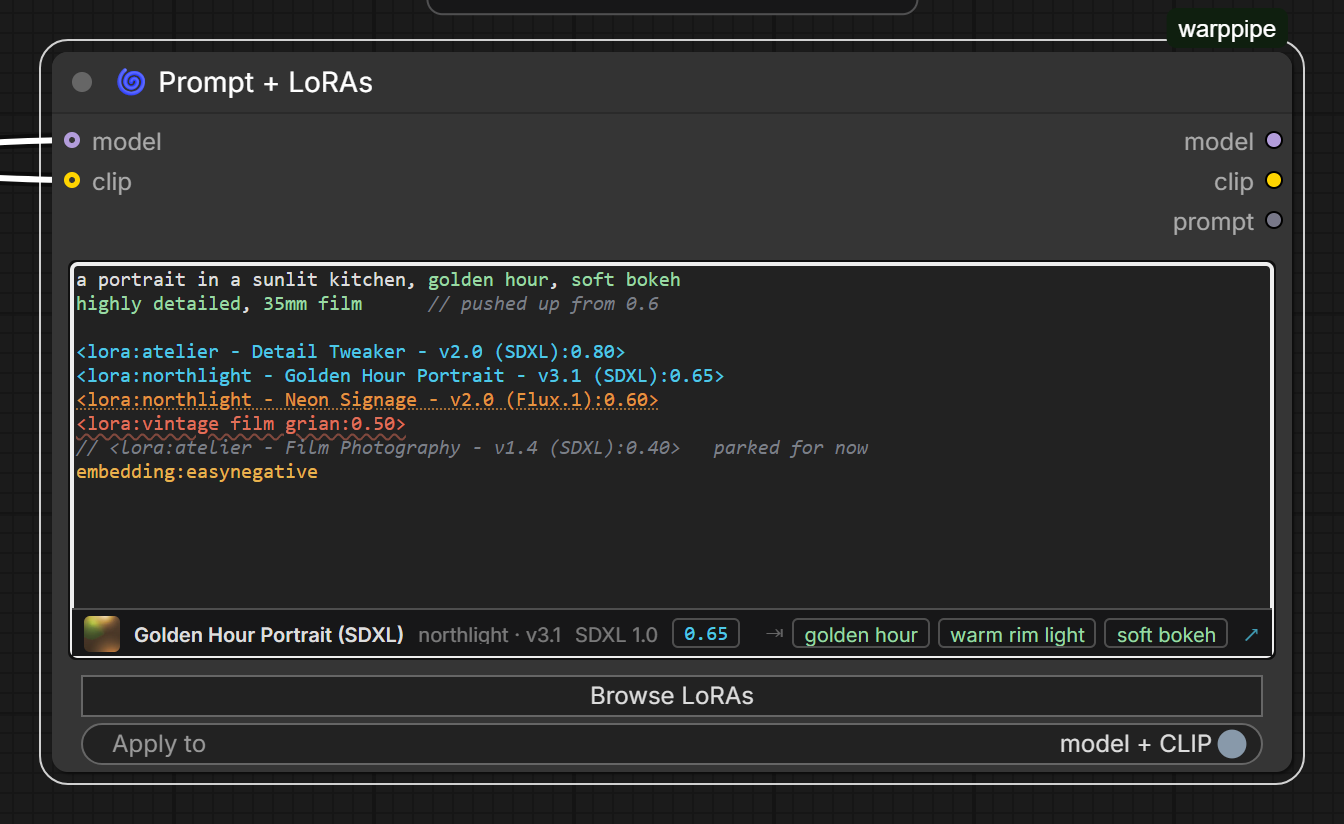
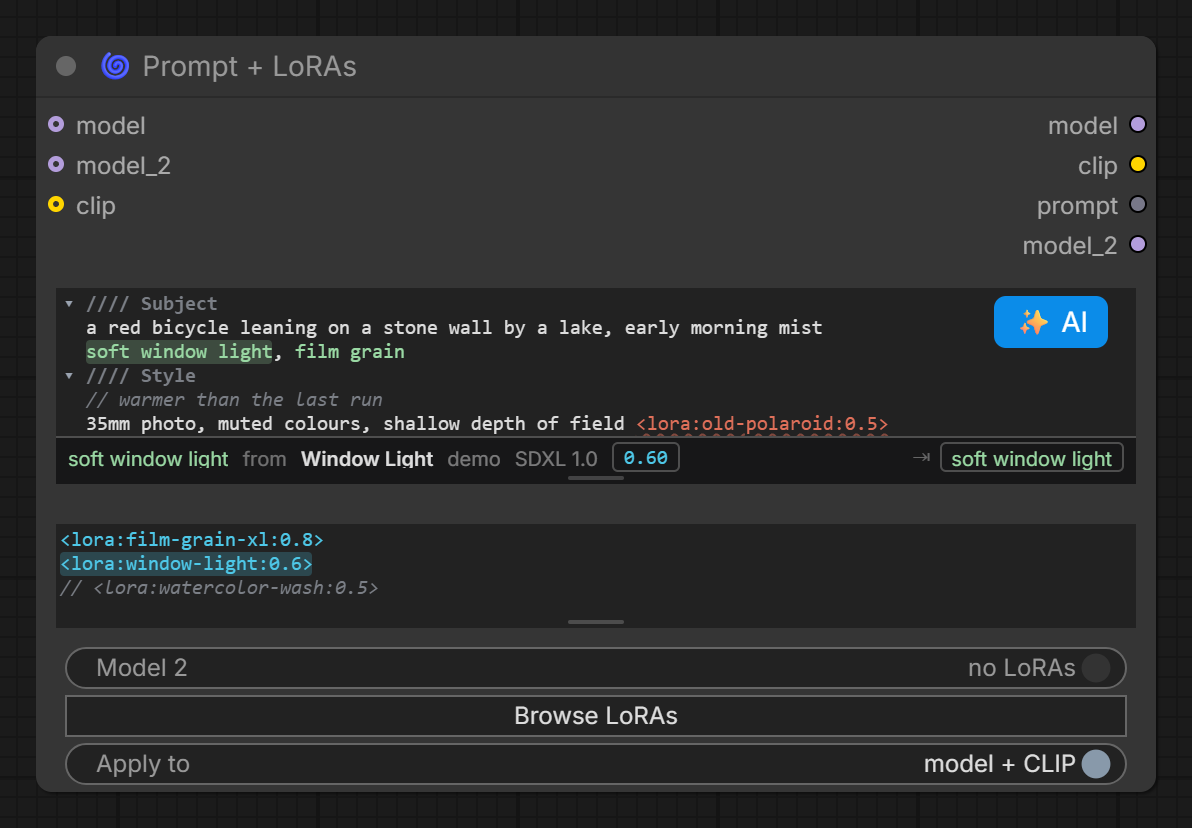
docs: a shorter README with the Prompt Writer and model groups
New screenshots, taken from a real ComfyUI with demo LoRAs, demo chats
and stand-in images: the prompt box with sections and trigger words,
the Prompt Writer showing changes, and Warp Send / Select with the
before/after slider. A diagram of the routing, prompt and LoRA examples,
and a metadata sample produced by build_civitai_parameters itself.

Changed region(s): [[0.0, 0.0303, 0.9933, 0.9709]]

diff --git a/README.md b/README.md
@@ -2,17 +2,13 @@
 
 # WarpPipe
 
-ComfyUI nodes that bundle a whole generation into one wire, and a prompt box
-that keeps a prompt and its LoRAs in the same place.
+ComfyUI nodes for people who switch models a lot and like their LoRAs in the prompt.
 
-- **Warp / Unwarp** — everything a sampler needs travels as a single link.
-  Switching between whole model setups is one wire moved instead of twenty.
-- **Prompt + LoRAs** — write `a portrait <lora:detail tweaker:0.8>` and have it
-  mean it. The tags *are* the loader; the prompt is still a prompt.
-- **Save Image (Civitai)** — writes metadata Civitai reads, so an upload
-  credits the checkpoint and the LoRAs that actually made the picture.
-
-They work apart as well as together.
+- **Prompt + LoRAs**: LoRAs are tags in the text, and colours tell you what will load before you queue.
+- **Prompt Writer**: an LLM chat behind every prompt box. Each answer is a version you can compare and send back.
+- **Warp / Unwarp**: a whole generation in one wire.
+- **Warp Send / Select**: switch between model groups without moving a wire.
+- **Save Image (Civitai)**: metadata Civitai reads, so an upload credits the right model and LoRAs.
 
 ## Install
 
@@ -20,148 +16,136 @@ They work apart as well as together.
 comfy node install warppipe
 ```
 
-Or clone into `ComfyUI/custom_nodes` and restart. Python 3.9+, no third-party
-dependencies.
+Or clone into `ComfyUI/custom_nodes` and restart. Python 3.9+, no extra dependencies.
 
-## The prompt box
+## Prompt + LoRAs
 
-![The Prompt + LoRAs node, with tags, notes and trigger words coloured](assets/docs/prompt-node.webp)
+<img src="assets/docs/prompt-node.webp" alt="Prompt + LoRAs with sections, trigger words, a LoRA list and the AI button" width="600">
 
-Colour says what will happen before you run anything: cyan resolves, red matches
-nothing, orange is built for another base model, green is a trigger word — a
-dimmer green when its LoRA is switched off — and grey is a `//` note that never
-reaches the model. The line underneath describes whichever tag the caret is in,
-or, from a trigger word, the LoRA it belongs to.
+The prompt goes on top, the LoRAs in the list below, one per line:
 
-The prose goes in the prompt box and the LoRAs in the short list under it, one
-tag to a line. Press `/` to complete against your library inline, `Tab` to take
-it, `Tab` again on a tag for that LoRA's trigger words. Weight, ordering and
-switching a LoRA off are ordinary text edits, so undo covers all of them.
+```text
+//// Subject
+a red bicycle leaning on a stone wall by a lake, early morning mist
+soft window light, film grain
+//// Style
+// a note: never reaches the model
+35mm photo, muted colours <lora:old-polaroid:0.5>
+```
 
-A second list, switched on, gives `model_2` a stack of its own for a two-pass
-sampler — base then turbo, high noise then low.
+```text
+<lora:film-grain-xl:0.8>
+<lora:window-light:0.6>
+// <lora:watercolor-wash:0.5>
+```
 
-→ [Writing a prompt](WIKI.md#writing-a-prompt) ·
-[the browser](WIKI.md#the-browser) · [all the keys](WIKI.md#keys)
+| Colour | Means |
+| --- | --- |
+| cyan | the LoRA was found |
+| red | no file by that name |
+| orange | made for another base model |
+| green | trigger word of a LoRA that is on (dim when it is off) |
+| grey | a `//` note, or a LoRA switched off |
+
+`////` starts a section you can fold. `/` completes from your LoRA library, `Tab`
+on a tag adds its trigger words, `Ctrl+/` switches lines on and off. A second
+list can feed `model_2` for two-pass setups.
+
+## Prompt Writer
+
+![The Prompt Writer: chats on the left, versions with their changes on the right](assets/docs/prompt-writer.webp)
+
+Click **✨ AI** on any prompt box and say what you want, with reference images if
+you like. Every answer becomes a version. Edit it, write the next one from it, or
+**Send to prompt**. **Show changes** marks what is new and puts the word it
+replaced small above it.
+
+- Works with NanoGPT out of the box, or any OpenAI-compatible server (LM Studio, Ollama, llama.cpp).
+- The API key stays on the ComfyUI server (`user/warppipe_llm_keys.json` or `NANOGPT_API_KEY`). It never reaches the browser, a workflow or an image.
+- Bring your own system prompts: a folder of `.txt` files, set under Settings → WarpPipe.
+- It knows your LoRAs for the connected model and can suggest some. Nothing lands in your list until you press **+**.
+- Chats are saved in the ComfyUI user folder and keep writing after you close the pop-up.
 
 ## One wire
 
 ![A Warp bundling three sources into one link, unpacked by Unwarp](assets/docs/warp-unwarp.webp)
 
-Everything on the left goes into a **Warp**. One link crosses the canvas. An
-**Unwarp** gives it all back. Warps chain, so a second one downstream carries
-everything the first did and adds to it.
+A **Warp** takes models, conditioning, latents, prompts and sampler settings. One
+link crosses the canvas, and an **Unwarp** gives it all back. Warps chain: one
+further down carries everything the first did and adds to it.
 
-→ [Bundling a generation](WIKI.md#bundling-a-generation)
+## Switching model groups
 
-## Works with Civitai Updater
+![Two model groups with a Warp Send each, and a Warp Select in the hub](assets/docs/warp-send-select.webp)
 
-WarpPipe reads the `.civitai.info` sidecars that
-[Civitai Updater](https://github.com/gregory-richard/comfyui-civitai-updater)
-writes: trigger words, base models, titles, Civitai links and the AutoV2 hash
-Civitai matches on. Only the hash has a fallback — the rest simply are not there
-without a sidecar, and the features built on them go quiet.
+```mermaid
+flowchart LR
+  subgraph A[Krea 2]
+    L1[Loaders] --> W1[Warp] --> S1[Warp Send]
+  end
+  subgraph B[Z-Image Turbo]
+    L2[Loaders] --> W2[Warp] --> S2[Warp Send]
+  end
+  S1 -. active .-> SEL[Warp Select]
+  S2 -. off .-> SEL
+  SEL --> U[Unwarp] --> K[Sampler] --> SAVE["Save Image (Civitai)"]
+```
 
-→ [What the sidecars give you](WIKI.md#what-the-sidecars-give-you)
+Put a **Warp Send** at the end of each model group and one **Warp Select** in the
+shared part. Press **activate** on a Send, or pick it in the Select, and only that
+group runs. Green runs, red doesn't. If the routing is broken (nothing active, the
+active Send muted, two Sends with one name) the queue says so instead of running.
 
-## The nodes
+The active Send shows the live preview while it samples
+(`--preview-method auto`) and a before/after slider when it is done. Right-click
+any image node and **Use as before image** to choose what goes on the left. The
+same slider exists as its own node, **Warp Compare**.
 
-| Node | |
-| --- | --- |
-| 🌀 **Warp** | Bundles models, conditioning, images, latents, prompts and parameters into one link |
-| 🌀 **Unwarp** | Unpacks it into twenty-two outputs |
-| 🌀 **Warp Provider** | Latent and parameters together, with 30+ resolution presets |
-| 🌀 **Prompt + LoRAs** | The prompt box above |
-| 🌀 **Save Image (Civitai)** | Saves with metadata Civitai reads |
-| 🌀 **Scheduler Adapter for FaceDetailer** | Maps KSampler schedulers onto FaceDetailer's set |
-| 🌀 **Warp Send** | Passes a Warp through one model group; the active Send is the one that runs, and shows the live preview and a before/after slider |
-| 🌀 **Warp Select** | Picks the model group to run from a dropdown of Sends, in the hub - no wire moved |
-| 🌀 **Warp Compare** | Compares a `before` (left) and an `after` (right) image with a slider that follows the mouse; arrows step through batch pairs. Replaces rgthree's Image Comparer |
-| 🚫 **Dead End** | Accepts any type, produces nothing. Parks a branch without deleting it |
+## Save Image (Civitai)
 
-### Choosing a model group without moving wires
+Saves PNG or JPEG with the generation info Civitai reads. The `Hashes` field is
+what makes an upload link the checkpoint and every LoRA:
 
-Put a **Warp Send** in each model group and a **Warp Select** in the hub. Pick a
-group in Warp Select's dropdown, or press **activate** on its Warp Send, and that
-group's Send is the one that runs. **go to active group** on Warp Select only
-moves the canvas to the active Send. The active Send is fully green, inactive
-Sends are fully red with a line "active: <name>", and Warp Select is green while
-the route is valid and red otherwise. The queue is blocked with a message when
-no Send is active, the active one is muted or bypassed, two Sends share a name or
-an index, or the active one has no warp input.
+```text
+a red bicycle by a lake, early morning mist <lora:film-grain-xl:0.8>
+Steps: 30, Sampler: dpmpp_2m, Schedule type: karras, CFG scale: 5.0, Seed: 44,
+Size: 1024x1024, Model hash: 4c2b8e1f0a, Model: demo-sdxl,
+Lora hashes: "film-grain-xl: 3b1f0c2a9d",
+Hashes: {"model":"4c2b8e1f0a","lora:film-grain-xl":"3b1f0c2a9d"}, Version: ComfyUI-WarpPipe
+```
 
-No links are needed for results. The active Send shows the images Save Image
-(Civitai) shows in that run as the final, and the images of the node you mark
-with right-click **Use as before image** as the before (one node
-per workflow; **Remove before-image mark** undoes it). Warp Compare is the same
-slider as a node of its own. All of it works in the classic canvas and in
-Nodes 2.0. The live preview needs ComfyUI started with `--preview-method auto`.
-Help for each: `web/docs/Warp Send.md`, `Warp Select.md`, `Warp Compare.md`.
+It also shows what it saved next to the before image, in the same slider.
 
-### Writing prompts with an LLM
-
-Every **Prompt + LoRAs** has an **✨ AI** button on its text box. It opens
-a pop-up where you chat with an LLM about the prompt: say what you want, add
-images, and each answer becomes a version you can edit or continue from. **Send to
-prompt** writes a version into the Prompt + LoRAs chosen at the top. With LoRA suggestions
-on, the LLM knows your LoRAs for that model or only those in the node's list, uses the trigger words of active ones and
-suggests others, which only reach a list when you press **+**. Writing carries on after the pop-up
-is closed, and several chats can write at once. Chats are stored in the ComfyUI
-user folder, never in the workflow or in images. NanoGPT is the default; any
-OpenAI-compatible server (LM Studio, Ollama, llama.cpp) works through the base
-URL under ⚙. Type the API key once under ⚙; it is saved in
-`user/warppipe_llm_keys.json` and kept across restarts (`NANOGPT_API_KEY` works
-too). It is never stored in a workflow or sent to the browser. Pick the system
-prompt folder in Settings → WarpPipe → Prompt Writer. Help:
-`web/docs/Prompt Writer.md`.
-
-Every node carries its own help inside ComfyUI, behind the `?` on the node.
-
-→ [Every input and output](WIKI.md#node-reference)
+If you use [Civitai Updater](https://github.com/gregory-richard/comfyui-civitai-updater),
+WarpPipe reads its `.civitai.info` files for trigger words, base models and titles.
 
 ## Example workflow
 
-Two model configurations — Krea 2 and Z-Image Turbo — each with its own Warp,
-switched into one shared workflow:
+<img src="examples/workflow_example_screenshot.png" alt="The example workflow: two model groups feeding one shared pipeline" width="820">
 
-<p align="center">
-  <img src="examples/workflow_example_screenshot.png" alt="The example workflow: two model groups feeding one shared pipeline" width="820">
-</p>
+Krea 2 and Z-Image Turbo in one workflow. The image below was made with it and
+has the workflow inside: drag it into ComfyUI to open it, or grab the
+[JSON](examples/workflow_example.json).
 
-It produced this, and carries the workflow inside it — drag the image into
-ComfyUI to open it:
+<img src="examples/workflow_example.png" alt="A pixel-art warp pipe made with the example workflow" width="260">
 
-<p align="center">
-  <img src="examples/workflow_example.png" alt="A pixel-art warp pipe, generated by the example workflow" width="300">
-</p>
+## All nodes
 
-Save Image (Civitai) wrote this alongside it, which is what a site reads:
+| Node | |
+| --- | --- |
+| 🌀 Warp / Unwarp | Bundle a generation into one link and unpack it again |
+| 🌀 Warp Provider | Latent and sampler settings, with size presets for current models |
+| 🌀 Prompt + LoRAs | Prompt and LoRAs in one box |
+| 🌀 Save Image (Civitai) | Save with metadata Civitai reads |
+| 🌀 Warp Send / Warp Select | Pick which model group runs |
+| 🌀 Warp Compare | Before/after slider |
+| 🌀 Scheduler Adapter for FaceDetailer | KSampler schedulers for FaceDetailer |
+| 🚫 Dead End | Takes anything, does nothing. Parks a branch |
 
-```
-Steps: 8, Sampler: euler, Schedule type: simple, CFG scale: 1.0, Seed: 44,
-Size: 1024x1536, Model hash: 8e4eeda70d, Model: krea2_turbo_int8_convrot,
-Hashes: {"model":"8e4eeda70d"}, Version: ComfyUI-WarpPipe
-```
-
-Or download the [workflow JSON](examples/workflow_example.json).
-
-## Documentation
-
-Everything else is in **[WIKI.md](WIKI.md)**:
-[getting started](WIKI.md#getting-started) ·
-[usage](WIKI.md#usage) ·
-[node reference](WIKI.md#node-reference) ·
-[HTTP API](WIKI.md#http-api) ·
-[architecture](WIKI.md#architecture) ·
-[development](WIKI.md#development) ·
-[troubleshooting](WIKI.md#troubleshooting)
+Each node has its own help behind the `?` in ComfyUI. Everything else, every
+input and the HTTP routes are in the **[wiki](WIKI.md)**.
 
 ## Credits
 
-UI screenshots are taken from a real ComfyUI against a small demo LoRA folder;
-those names are illustrative and that preview art is generated stand-in, not any
-creator's work.
-
-Developed with AI assistance (Claude Opus 5).
-
-Licensed under the [MIT License](LICENSE).
+Screenshots use demo LoRAs and stand-in images, not anyone's real models.
+Developed with AI assistance (Claude Opus 5). [MIT License](LICENSE).
